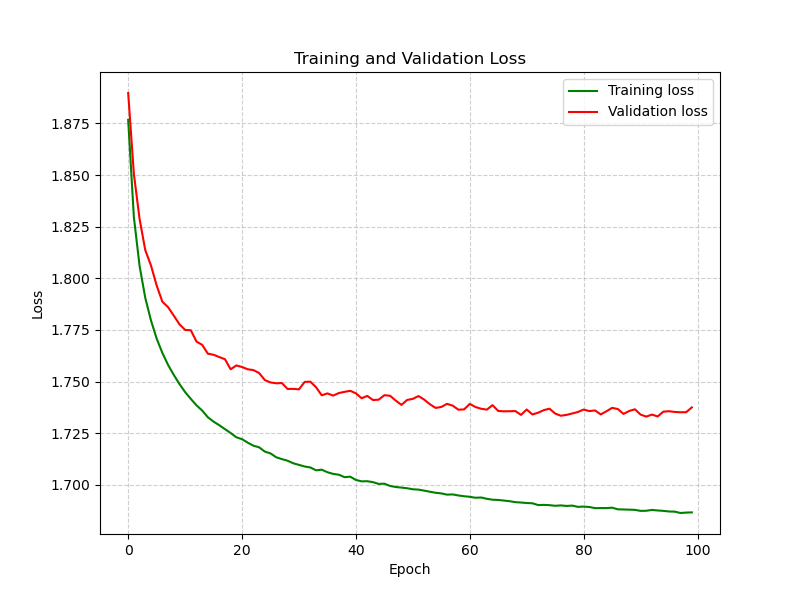
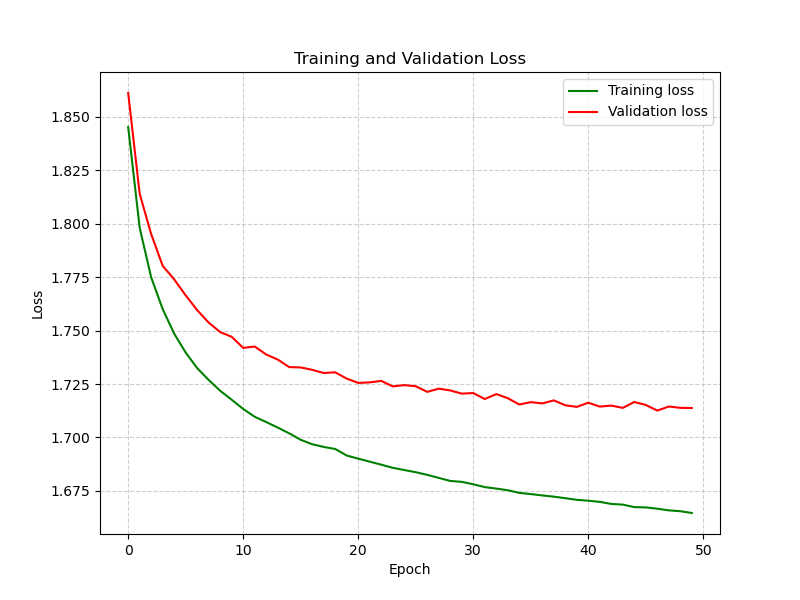
Update README with Bonus 2 results

diff --git a/BCE_image_classifier.py b/BCE_image_classifier.py
@@ -76,31 +76,34 @@ def ApplyNetwork(X, network):
     
     s = np.dot(W, X) + b
     
-    # Softmax function
-    s_max = np.max(s, axis=0, keepdims=True)
-    e_s = np.exp(s - s_max) # The softmax function is invariant to the shift s -> s - c for any constant c, avoiding overflow
-    
-    P = e_s / np.sum(e_s, axis=0, keepdims=True)
+    # Sigmoid function instead of Softmax
+    # Use np.clip to prevent overflow
+    s_clipped = np.clip(s, -500, 500)
+    P = 1.0 / (1.0 + np.exp(-s_clipped))
     
     return P
 
 def ComputeLoss(P, y, network, lam):
     W = network['W']
-    n = P.shape[1]
+    K, n = P.shape
     
-    # Use numpy array indexing to get the correct probabilities
+    # Convert y to One-hot matrix Y
     y_arr = np.array(y)
-    correct_prob = P[y_arr, np.arange(n)]
+    Y = np.zeros((K, n), dtype=np.float32)
+    Y[y_arr, np.arange(n)] = 1.0
     
-    # Compute the cross-entropy loss
-    loss_cross = np.mean(-np.log(correct_prob + 1e-10)) # Add small epsilon to prevent log(0)
+    # Calculate Multiple Binary Cross-Entropy (BCE) Loss
+    # Formula: -(1/K) * sum( y*log(p) + (1-y)*log(1-p) )
+    term1 = Y * np.log(P + 1e-10)
+    term2 = (1 - Y) * np.log(1 - P + 1e-10)
     
-    # Compute the regularization loss
+    # Sum the loss for each class, divide by K, then average over all n samples
+    loss_bce = -np.mean(np.sum(term1 + term2, axis=0) / K)
+    
+    # Regularization part remains the same
     loss_reg = lam * np.sum(W * W)
     
-    # Total loss
-    J = loss_cross + loss_reg
-    
+    J = loss_bce + loss_reg
     return J
 
 def ComputeAccuracy(P, y):
@@ -111,10 +114,11 @@ def ComputeAccuracy(P, y):
 
 def BackwardPass(X, Y, P, network, lam):
     W = network['W']
-    n = X.shape[1]
+    K, n = P.shape
     
     # Gradient of loss w.r.t. s
-    G = P - Y # We have proved in lecture that dJ/ds = P - Y
+    # Compared to Softmax, divided by an additional K (K=10)
+    G = (P - Y) / K
     
     # Gradient of loss w.r.t. W
     grad_W = (1 / n) * np.dot(G, X.T) + 2 * lam * W
@@ -253,7 +257,7 @@ if __name__ == "__main__":
     # Set to False to skip Grid Search and load the saved parameters.
     # ---------------------------------------------------------
     PERFORM_GRID_SEARCH = True
-    params_file = "bonus_best_params.json"
+    params_file = "BCE_best_params.json"
     
     print("[Bonus 1] Loading the full dataset...")
     dataset_dir = "Datasets/cifar-10-batches-py"
@@ -271,7 +275,7 @@ if __name__ == "__main__":
         print("\nPreparing for grid search...")
         # Define candidate hyperparameter ranges for grid search.
         grid_lams = [0.0, 0.001, 0.01]
-        grid_etas = [0.01, 0.001]
+        grid_etas = [0.1, 0.01, 0.001]
         grid_batches = [100, 500]
         
         # Since we evaluate multiple combinations on the full 50,000 dataset,
@@ -359,6 +363,6 @@ if __name__ == "__main__":
     print(f"Using the best configuration, final Test Accuracy: {final_test_acc * 100:.2f}%")
     
     os.makedirs("images", exist_ok=True)
-    PlotLoss(train_history, val_history, "images/Bonus1_Final_Loss.png")
-    VisualizeWeights(final_trained_net['W'], "images/Bonus1_Final_Weights.png")
+    PlotLoss(train_history, val_history, "images/BCE_Loss.png")
+    VisualizeWeights(final_trained_net['W'], "images/BCE_Weights.png")
     print("Saved final training loss curves and weight visualizations to the 'images' directory.")

diff --git a/README.md b/README.md
@@ -54,7 +54,7 @@ The baseline network was trained on a single batch (10,000 images) for 40 epochs
 
 ---
 
-## 🚀 Part 2: Performance Improvements (Bonus 1)
+## 🚀 Part 2: Performance Improvements (Exercise 2.1 / Bonus 1)
 
 To maximize the performance of a simple linear classifier, several advanced techniques were implemented in `bonus_classifier.py`:
 
@@ -62,22 +62,46 @@ To maximize the performance of a simple linear classifier, several advanced tech
 1.  **Full Dataset Utilization:** Concatenated all 5 CIFAR-10 training batches, utilizing 49,000 images for training and 1,000 for validation.
 2.  **Data Augmentation:** Implemented an on-the-fly random horizontal flip with a 50% probability during training to force the network to learn translation-invariant features.
 3.  **Automated Grid Search:** Built a grid search mechanism to systematically find the optimal combination of $\lambda$, $\eta$, and batch size.
-4.  **Step Decay (Learning Rate):** Explored reducing the learning rate by a factor of 10 every 10 epochs. 
+4.  **Step Decay (Learning Rate):** Explored reducing the learning rate by a factor of 10 every 10 epochs (ultimately disabled for the linear model as it caused premature loss plateauing). 
 
 ### Final Results & Analysis
 Through Grid Search, the **optimal configuration** was found to be: 
-`n_batch = 100`, `eta = 0.001`, and `lam = 0.01`. 
+`n_batch = 100`, `eta = 0.001`, and `lam = 0.0`. 
 
-Using this configuration, the network underwent a final deep training phase of 100 epochs, achieving a **final test accuracy of 41.89%**.
+Using this configuration, the network underwent a final deep training phase of 100 epochs, achieving a **final test accuracy of 42.02%**.
 
-**Key Takeaways (Supported by Figures 4 & 5):**
-
+**Key Takeaways:**
 * **Eradication of Over-fitting:** The combination of Data Augmentation and a massive increase in training data proved incredibly effective. As shown in **Figure 4**, the validation loss flattened and remained entirely stable from epoch 40 to 100 without diverging upwards, proving that over-fitting was completely mitigated.
+* **Symmetrical Weight Templates:** Due to the 50% horizontal flipping, the learned weight templates (e.g., "horse" and "automobile") became highly symmetrical (Figure 5). The network successfully learned generalized, centered features rather than memorizing orientation.
 
-  **Figure 4: 100-Epoch Final Loss Curve - Overfitting Eradicated**
+  **Figure 4: 100-Epoch Final Loss Curve (Softmax)**
   ![Bonus 1 Final Deep Training Loss Plot](images/Bonus1_Final_Loss.png)
 
-* **Symmetrical Weight Templates:** Due to the 50% horizontal flipping, the learned weight templates (e.g., "horse" and "automobile") became highly symmetrical (Figure 5). The network successfully learned generalized, centered features (two-headed horse shape, perfectly centered symmetric truck) rather than memorizing orientation.
-
-  **Figure 5: 100-Epoch Final Learnt Weight Templates - Symmetric generalization**
+  **Figure 5: 100-Epoch Final Learnt Weight Templates (Softmax)**
   ![Bonus 1 Final Symmetric Weights Visualization](images/Bonus1_Final_Weights.png)
+
+---
+
+## 🧠 Part 3: Multiple Binary Cross-Entropy Loss (Exercise 2.2 / Bonus 2)
+
+To understand the underlying mathematical structure of different loss functions, the network was entirely refactored in `BCE_image_classifier.py` to use a **Sigmoid** activation function paired with a **Multiple Binary Cross-Entropy (BCE)** loss, instead of Softmax and Cross-Entropy.
+
+### Mathematical & Architectural Shift
+* **Assumption Change:** While Softmax forces a mutually exclusive probability distribution (single-label), Sigmoid treats the prediction of each of the 10 classes as an independent binary classification problem (multi-label).
+* **Analytical Gradient:** The gradient of the Multiple BCE loss with respect to the scores $s$ was hand-derived as $\frac{\partial l}{\partial s} = \frac{1}{K}(p - y)$. This is structurally identical to the Softmax gradient but is scaled down by a factor of $1/K$ (where $K=10$).
+
+### Final Results & Analysis
+Because the gradient is scaled down by $1/10$, the network required a proportionally larger learning rate. Grid search identified the **optimal configuration** as:
+`n_batch = 100`, `eta = 0.01`, and `lam = 0.001`.
+
+After training for 100 epochs with data augmentation, the model achieved a **final test accuracy of 41.92%**.
+
+**Key Takeaways:**
+* **Comparable but Marginally Lower Performance:** The accuracy (41.92%) is highly comparable but very slightly lower than the Softmax counterpart (42.02%). This mathematically aligns with the nature of the CIFAR-10 dataset, where labels are strictly mutually exclusive. Softmax exploits this mutual exclusivity perfectly, while Sigmoid makes a weaker assumption. 
+* **Model Capacity Limit:** As seen in Figure 6, the training and validation curves overlap almost perfectly. The lack of a gap confirms zero over-fitting; the model is simply operating at its maximum mathematical capacity for a zero-hidden-layer architecture.
+
+  **Figure 6: 100-Epoch Final Loss Curve (Multiple BCE)**
+  ![BCE Loss Plot](images/BCE_Loss.png)
+
+  **Figure 7: Learnt Weight Templates (Multiple BCE)**
+  ![BCE Weights Visualization](images/BCE_Weights.png)
